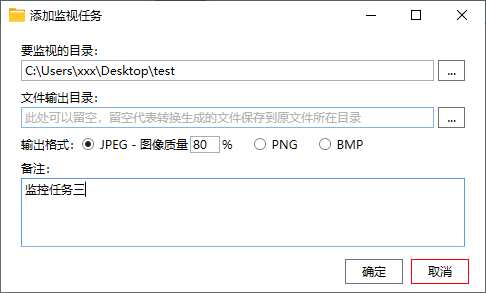
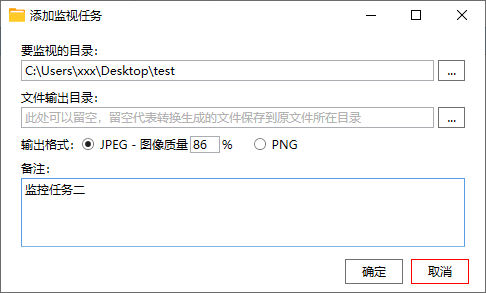
更新 README.md 和截图

diff --git a/README.md b/README.md
@@ -14,9 +14,9 @@
 
 ## 软件说明
 
-用于监视目录，自动把所监视的目录里新增的 webp 文件转换为 jpeg/png/bmp 文件。
+用于监视目录，自动把所监视的目录里新增的 webp 文件转换为 jpeg/png 文件。
 
-项目的图像转换模块 `WebpCvt/Library/webpcvt.dll` 来自 [libwebpcvt](https://github.com/hrpzcf/libwebpcvt)，提供 webp 图像转换为 jpeg/png/bmp 格式图像的功能，详情请点击前往查看。
+项目的图像转换模块 `WebpCvt/Library/webpcvt.dll` 来自 [libwebpcvt](https://github.com/hrpzcf/libwebpcvt)，提供 webp 图像转换为 jpeg/png 格式图像的功能，详情请点击前往查看。
 
 <br/>
 
